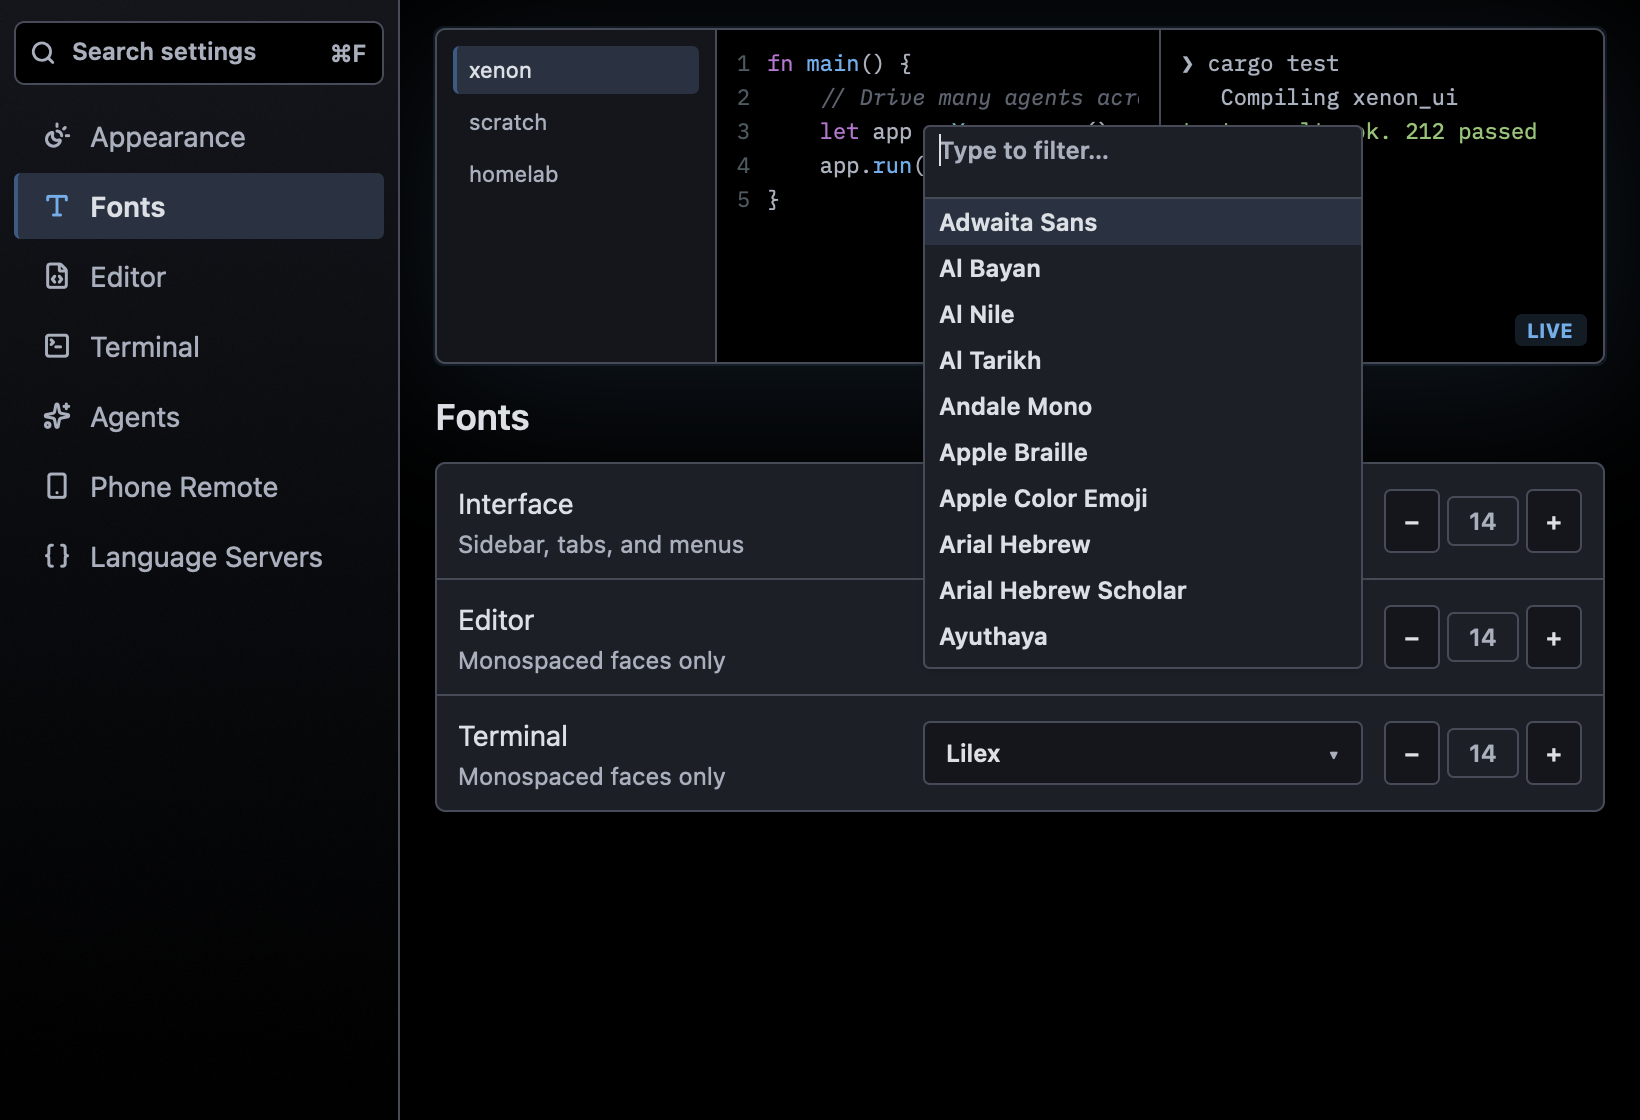
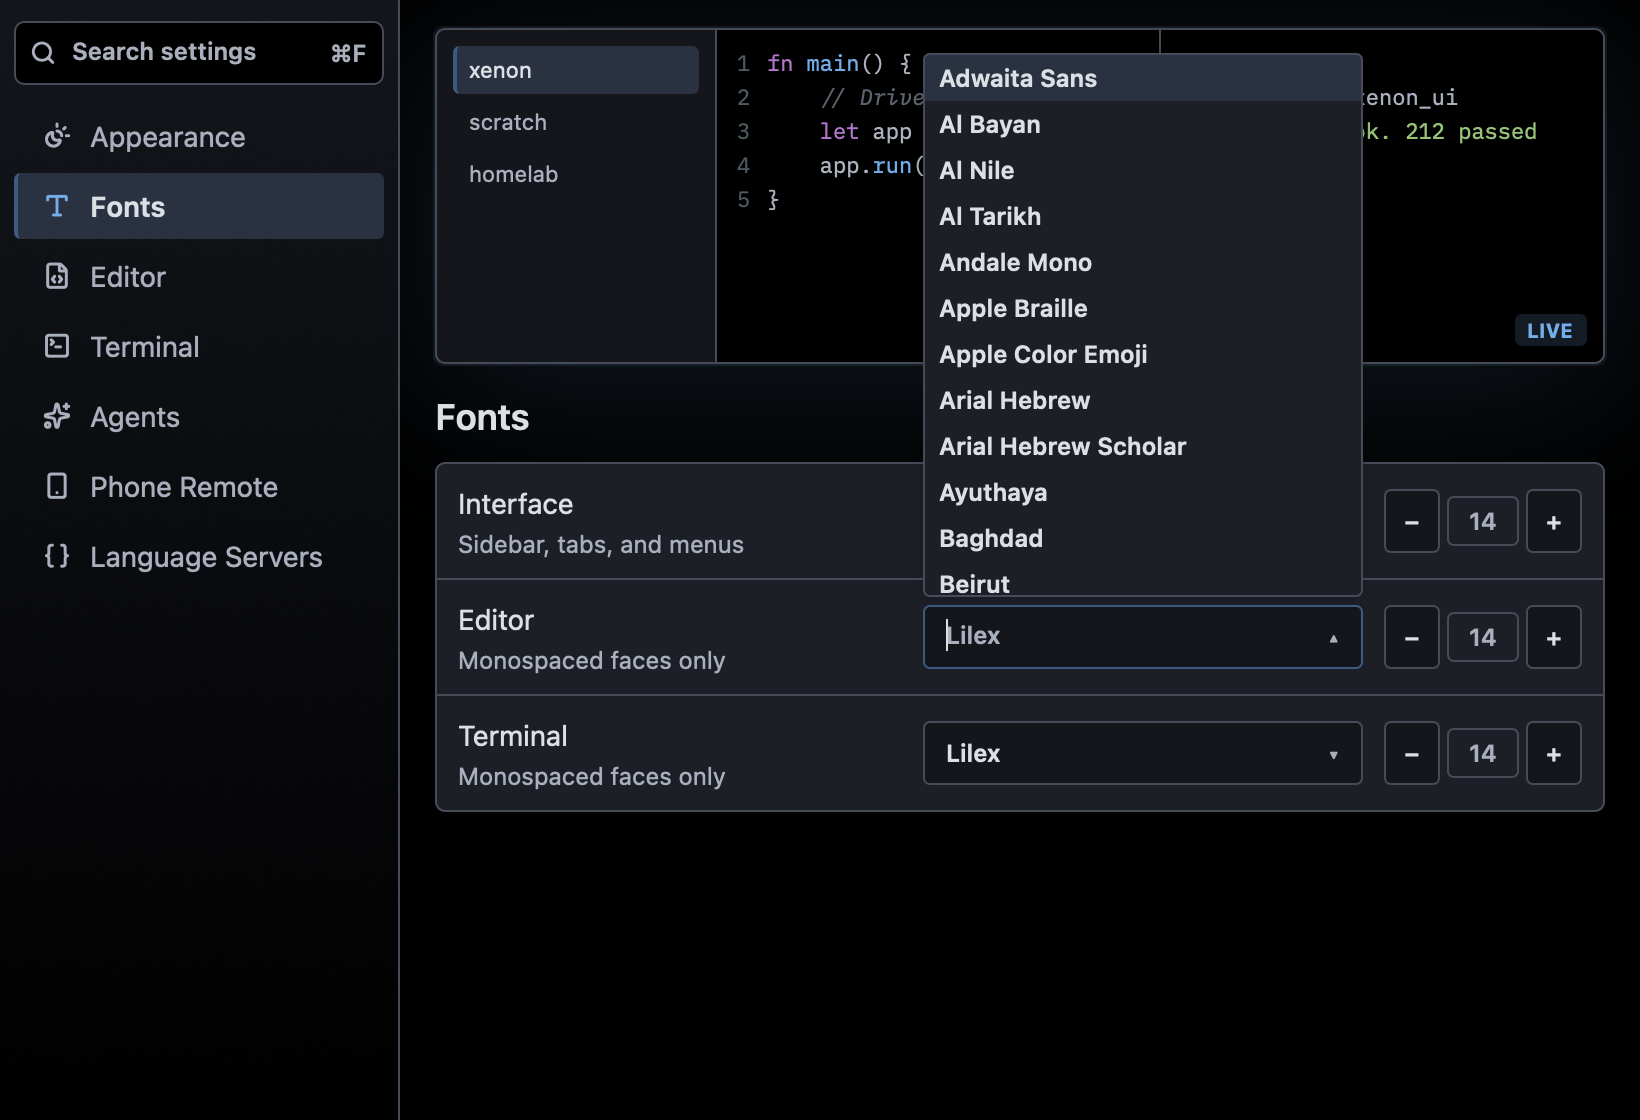
Font dropdown: type in the field itself, and keep the list on one side.
The filter was the first row of the popover, and the popover flipped across
the trigger whenever filtering changed whether the list fit below. Flipping
pinned the list's bottom to the trigger's bottom, covering the field. Now the
open trigger becomes the filter field (placeholder: the current family), and
the list's side is chosen once from the trigger's painted bounds: below, or
resting on the trigger's top edge. A filtered scene covers it.

Changed region(s): [[0.5598, 0.0312, 0.8396, 0.5938]]

diff --git a/crates/xenon_ui/src/dropdown/mod.rs b/crates/xenon_ui/src/dropdown/mod.rs
@@ -1,5 +1,8 @@
 //! Filterable / plain dropdown + size stepper for the Settings window.
-//! Open lists are deferred window-anchored popovers under the trigger.
+//! Open lists are deferred window-anchored popovers beside the trigger. A
+//! filterable trigger turns into its own filter field while open, so typing
+//! happens where the control sits. The list's side is chosen once, on open,
+//! from the trigger's last painted bounds, so filtering never moves it.
 
 use xenon_design_system::{TypeRole, Typography};
 mod fonts;
@@ -10,10 +13,13 @@ pub(crate) use fonts::{
     warm_ui_font_families,
 };
 
+use std::cell::Cell;
+use std::rc::Rc;
+
 use gpui::{
-    Anchor, InteractiveElement, IntoElement, ParentElement, Pixels, SharedString,
-    StatefulInteractiveElement, Styled, anchored, deferred, div, point, prelude::FluentBuilder, px,
-    relative,
+    Anchor, Bounds, InteractiveElement, IntoElement, ParentElement, Pixels, SharedString,
+    StatefulInteractiveElement, Styled, anchored, canvas, deferred, div, point,
+    prelude::FluentBuilder, px, relative,
 };
 use theme::ActiveTheme;
 use xenon_design_system::TextInputView;
@@ -26,6 +32,48 @@ pub(crate) enum DropdownId {
     Ui,
     Editor,
     Terminal,
+}
+
+impl DropdownId {
+    fn slot(self) -> usize {
+        match self {
+            Self::Ui => 0,
+            Self::Editor => 1,
+            Self::Terminal => 2,
+        }
+    }
+}
+
+/// Each trigger's last painted window bounds, read when its list opens.
+#[derive(Clone, Default)]
+pub(crate) struct TriggerBounds(Rc<Cell<[Option<Bounds<Pixels>>; 3]>>);
+
+impl TriggerBounds {
+    fn record(&self, id: DropdownId, bounds: Bounds<Pixels>) {
+        let mut all = self.0.get();
+        all[id.slot()] = Some(bounds);
+        self.0.set(all);
+    }
+
+    /// Open upward only when the list does not fit below and more room is above.
+    /// None until the trigger has painted.
+    pub(crate) fn opens_up(&self, id: DropdownId, viewport_height: Pixels) -> Option<bool> {
+        let bounds = self.0.get()[id.slot()]?;
+        let below = viewport_height - bounds.bottom();
+        let above = bounds.top();
+        Some(below < popup_max_height(viewport_height) + px(12.) && above > below)
+    }
+}
+
+/// The chosen family as its trigger shows it; the open filter's placeholder.
+pub(crate) fn current_label(id: DropdownId, cx: &gpui::App) -> String {
+    let settings = xenon_settings::snapshot(cx);
+    let family = match id {
+        DropdownId::Ui => settings.ui_font_family,
+        DropdownId::Editor => settings.editor_font_family,
+        DropdownId::Terminal => settings.terminal_font_family,
+    };
+    family_option_label(id, &family)
 }
 
 /// Which surface a size stepper adjusts.
@@ -51,55 +99,64 @@ pub(crate) struct DropdownProps<'a> {
     pub filter_input: &'a gpui::Entity<TextInputView>,
     pub highlight: usize,
     pub viewport_height: Pixels,
+    pub bounds: TriggerBounds,
+    pub opens_up: bool,
 }
 
-/// Trigger; the open list is a deferred popover that flips to stay on screen.
+/// Trigger; the open list is a deferred popover on the side chosen at open.
 pub(crate) fn dropdown_control(
     props: DropdownProps<'_>,
     cx: &mut gpui::Context<SettingsView>,
 ) -> impl IntoElement {
     let filtered = filter_options(props.options, props.filterable, props.filter);
     let max_h = popup_max_height(props.viewport_height);
+    let (id, bounds) = (props.id, props.bounds.clone());
 
     div()
         .id(SharedString::from(format!("dd-panel-{:?}", props.id)))
         .relative()
         .w(px(PANEL_WIDTH))
         .on_click(cx.listener(|_, _, _, cx| cx.stop_propagation()))
-        .child(trigger(props.id, props.selected, props.open, cx))
-        // Zero-height strip at the bottom of the trigger: popover origin so the
-        // list opens this frame (no bounds-tracker wait).
+        .child(
+            canvas(move |b, _, _| bounds.record(id, b), |_, _, _, _| {})
+                .absolute()
+                .size_full(),
+        )
+        .child(if props.open && props.filterable {
+            filter_trigger(props.filter_input.clone(), cx).into_any_element()
+        } else {
+            trigger(props.id, props.selected, props.open, cx).into_any_element()
+        })
+        // Zero-height strip on the chosen edge of the trigger: the popover origin,
+        // so the list opens this frame (no bounds-tracker wait).
         .when(props.open, |panel| {
             let list = option_list(
                 ListProps {
                     id: props.id,
                     options: &filtered,
                     selected: props.selected,
-                    filterable: props.filterable,
-                    filter_input: props.filter_input,
                     highlight: props.highlight,
                     max_h,
                 },
                 cx,
             );
+            let (edge, anchor, gap) = if props.opens_up {
+                (relative(0.), Anchor::BottomLeft, px(-4.))
+            } else {
+                (relative(1.), Anchor::TopLeft, px(4.))
+            };
             panel.child(
-                div()
-                    .absolute()
-                    .top(relative(1.))
-                    .left_0()
-                    .w_full()
-                    .h(px(0.))
-                    .child(
-                        deferred(
-                            anchored()
-                                .anchor(Anchor::TopLeft)
-                                // Gap below the trigger; SwitchAnchor flips upward when
-                                // the list would overflow the bottom of the window.
-                                .offset(point(px(0.), px(4.)))
-                                .child(div().occlude().w(px(PANEL_WIDTH)).child(list)),
-                        )
-                        .with_priority(100),
-                    ),
+                div().absolute().top(edge).left_0().w_full().h(px(0.)).child(
+                    deferred(
+                        anchored()
+                            .anchor(anchor)
+                            .offset(point(px(0.), gap))
+                            // Never flip on its own: flipping would cover the field.
+                            .snap_to_window()
+                            .child(div().occlude().w(px(PANEL_WIDTH)).child(list)),
+                    )
+                    .with_priority(100),
+                ),
             )
         })
 }
@@ -196,8 +253,6 @@ struct ListProps<'a> {
     id: DropdownId,
     options: &'a [SharedString],
     selected: &'a str,
-    filterable: bool,
-    filter_input: &'a gpui::Entity<TextInputView>,
     highlight: usize,
     max_h: Pixels,
 }
@@ -221,9 +276,6 @@ fn option_list(props: ListProps<'_>, cx: &mut gpui::Context<SettingsView>) -> im
         }))
         .on_click(cx.listener(|_, _, _, cx| cx.stop_propagation()));
 
-    if props.filterable {
-        list = list.child(filter_banner(props.filter_input.clone(), cx));
-    }
     if props.options.is_empty() {
         list = list.child(
             div()
@@ -247,7 +299,8 @@ fn option_list(props: ListProps<'_>, cx: &mut gpui::Context<SettingsView>) -> im
     list
 }
 
-fn filter_banner(
+/// The open, filterable trigger: same box as the button, holding the filter field.
+fn filter_trigger(
     input: gpui::Entity<TextInputView>,
     cx: &mut gpui::Context<SettingsView>,
 ) -> impl IntoElement {
@@ -255,12 +308,17 @@ fn filter_banner(
     div()
         .flex()
         .items_center()
-        .px_2()
-        .py_1()
-        .border_b_1()
-        .border_color(colors.border)
-        .type_role(TypeRole::ControlLabel, cx)
-        .child(input)
+        .gap_2()
+        .w_full()
+        .min_h(px(32.))
+        .px_3()
+        .rounded_sm()
+        .border_1()
+        .border_color(colors.border_selected)
+        .bg(colors.element_background)
+        .type_role(TypeRole::Button, cx)
+        .child(div().flex_1().min_w_0().child(input))
+        .child(div().text_color(colors.text_muted).child("▴"))
 }
 
 fn option_row(

diff --git a/crates/xenon_ui/src/settings/mod.rs b/crates/xenon_ui/src/settings/mod.rs
@@ -44,6 +44,9 @@ pub struct SettingsView {
     /// Pane child index for each keyboard row, refreshed every paint.
     row_children: Vec<usize>,
     open: Option<DropdownId>,
+    trigger_bounds: crate::dropdown::TriggerBounds,
+    /// Side of the open list, fixed once its trigger's bounds are known.
+    opens_up: Option<bool>,
     filter: String,
     filter_input: Entity<TextInputView>,
     highlight: usize,
@@ -58,7 +61,10 @@ impl SettingsView {
     pub fn new(window: &mut Window, cx: &mut Context<Self>) -> Self {
         let filter_input = cx.new(|cx| {
             TextInputView::new(
-                TextInputConfig::single_line("Type to filter…").parent_navigation(),
+                TextInputConfig::single_line("Type to filter…")
+                    .appearance(TextInputAppearance::Inline)
+                    .min_height(px(18.))
+                    .parent_navigation(),
                 cx,
             )
         });
@@ -96,6 +102,8 @@ impl SettingsView {
             search,
             row_children: Vec::new(),
             open: None,
+            trigger_bounds: Default::default(),
+            opens_up: None,
             filter: String::new(),
             filter_input,
             highlight: 0,
@@ -224,6 +232,14 @@ impl SettingsView {
                 .update(cx, |input, cx| input.set_text(query, cx));
             self.set_query(query.to_string(), cx);
         }
+    }
+
+    /// Visual tests: type into the open dropdown's filter.
+    pub fn visual_filter(&mut self, filter: &str, cx: &mut Context<Self>) {
+        self.filter_input
+            .update(cx, |input, cx| input.set_text(filter, cx));
+        self.filter = filter.to_owned();
+        cx.notify();
     }
 
     /// Keyboard tests: the live search query.

diff --git a/crates/xenon_ui/src/app/visual/mod.rs b/crates/xenon_ui/src/app/visual/mod.rs
@@ -61,6 +61,7 @@ pub enum Scene {
     Rename,
     Memory,
     SettingsDropdown,
+    SettingsDropdownFiltered,
     TabTooltip,
     SettingsWindow,
     SkillPromptDark,
@@ -144,6 +145,7 @@ pub const SCENES: &[Scene] = &[
     Scene::Rename,
     Scene::Memory,
     Scene::SettingsDropdown,
+    Scene::SettingsDropdownFiltered,
     Scene::TabTooltip,
     Scene::SettingsWindow,
     Scene::SkillPromptDark,
@@ -244,6 +246,7 @@ impl Scene {
             Self::Rename => "overlay_rename",
             Self::Memory => "overlay_memory",
             Self::SettingsDropdown => "overlay_settings_dropdown",
+            Self::SettingsDropdownFiltered => "overlay_settings_dropdown_filtered",
             Self::TabTooltip => "overlay_tab_tooltip",
             Self::SettingsWindow => "settings_window",
             Self::SkillPromptDark => "overlay_skill_prompt_dark",
@@ -349,6 +352,7 @@ pub fn apply_scene(
         Scene::Rename => overlays::rename(app, window, cx),
         Scene::Memory => overlays::memory(app, window, cx),
         Scene::SettingsDropdown => settings::dropdown(app, window, cx),
+        Scene::SettingsDropdownFiltered => settings::dropdown_filtered(app, window, cx),
         Scene::TabTooltip => overlays::tab_tooltip(app, window, cx),
         Scene::SettingsWindow
         | Scene::SettingsEditor

diff --git a/crates/xenon_ui/src/app/visual/settings.rs b/crates/xenon_ui/src/app/visual/settings.rs
@@ -24,8 +24,25 @@ pub(super) fn page(app: &mut XenonApp, scene: Scene, cx: &mut Context<XenonApp>)
 pub(super) fn dropdown(app: &mut XenonApp, window: &mut Window, cx: &mut Context<XenonApp>) {
     populate(app, window, cx);
     show(app, SettingsPage::Fonts, "", cx);
-    with_settings(app, cx, |settings, window, cx| {
-        settings.toggle_dropdown(DropdownId::Editor, window, cx);
+    open_dropdown(app, DropdownId::Editor, "", cx);
+}
+
+/// The lowest font dropdown, filtered: the field stays in place and the list
+/// keeps its side of the trigger.
+pub(super) fn dropdown_filtered(
+    app: &mut XenonApp,
+    window: &mut Window,
+    cx: &mut Context<XenonApp>,
+) {
+    populate(app, window, cx);
+    show(app, SettingsPage::Fonts, "", cx);
+    open_dropdown(app, DropdownId::Terminal, "men", cx);
+}
+
+fn open_dropdown(app: &XenonApp, id: DropdownId, filter: &'static str, cx: &mut Context<XenonApp>) {
+    with_settings(app, cx, move |settings, window, cx| {
+        settings.toggle_dropdown(id, window, cx);
+        settings.visual_filter(filter, cx);
     });
 }
 

diff --git a/crates/xenon_ui/src/settings/pane.rs b/crates/xenon_ui/src/settings/pane.rs
@@ -22,12 +22,25 @@ impl SettingsView {
         } else {
             search_groups(&self.query, cx)
         };
+        if let Some(id) = self.open
+            && self.opens_up.is_none()
+        {
+            self.opens_up = self
+                .trigger_bounds
+                .opens_up(id, window.viewport_size().height);
+            if self.opens_up.is_none() {
+                // Opened before its trigger painted: decide next frame.
+                cx.notify();
+            }
+        }
         let state = PaintState {
             open: self.open,
             filter: &self.filter,
             filter_input: &self.filter_input,
             highlight: self.highlight,
             viewport_height: window.viewport_size().height,
+            bounds: &self.trigger_bounds,
+            opens_up: self.opens_up.unwrap_or(false),
             editing: self
                 .field_edit
                 .as_ref()

diff --git a/crates/xenon_ui/src/settings/row_view.rs b/crates/xenon_ui/src/settings/row_view.rs
@@ -19,6 +19,8 @@ pub(super) struct PaintState<'a> {
     pub filter_input: &'a Entity<TextInputView>,
     pub highlight: usize,
     pub viewport_height: gpui::Pixels,
+    pub bounds: &'a crate::dropdown::TriggerBounds,
+    pub opens_up: bool,
     pub editing: Option<(Field, Entity<TextInputView>)>,
 }
 
@@ -232,6 +234,8 @@ fn font_controls(
             filter_input: state.filter_input,
             highlight: state.highlight,
             viewport_height: state.viewport_height,
+            bounds: state.bounds.clone(),
+            opens_up: state.opens_up,
         },
         cx,
     );

diff --git a/crates/xenon_ui/src/settings/dropdowns.rs b/crates/xenon_ui/src/settings/dropdowns.rs
@@ -19,9 +19,14 @@ impl SettingsView {
             self.close_dropdown(window, cx);
         } else {
             self.open = Some(id);
+            self.opens_up = self
+                .trigger_bounds
+                .opens_up(id, window.viewport_size().height);
             self.filter.clear();
             self.highlight = 0;
+            let current = crate::dropdown::current_label(id, cx);
             self.filter_input.update(cx, |input, cx| {
+                input.set_placeholder(current, cx);
                 input.set_text("", cx);
                 input.open(cx);
             });

diff --git a/crates/xenon/src/visual_test_runner.rs b/crates/xenon/src/visual_test_runner.rs
@@ -222,6 +222,7 @@ fn run_scene(
         scene,
         xenon_ui::Scene::SettingsWindow
             | xenon_ui::Scene::SettingsDropdown
+            | xenon_ui::Scene::SettingsDropdownFiltered
             | xenon_ui::Scene::SettingsAgentsInstalled
             | xenon_ui::Scene::SettingsRemote
             | xenon_ui::Scene::SettingsEditor
